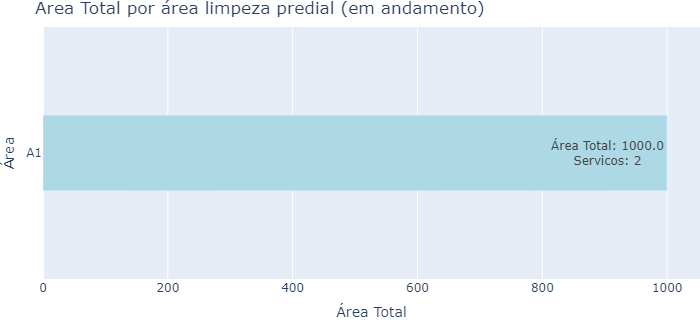
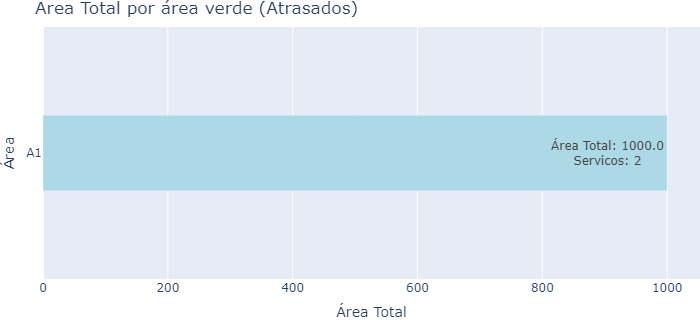
alter padrao de cores

Changed region(s): [[0.3, 0.0, 0.69, 0.0625]]

diff --git a/dashboards/data_visualization_jardinagem.py b/dashboards/data_visualization_jardinagem.py
@@ -474,27 +474,27 @@ class data_visualization_jardinagem_reports:
                 self.agendados,
                 status='Concluido',
                 field_name='Areas__Terreno__nome',
-                title='Área Total por Tipo de Terreno (Atrasados)',
+                title='Área Total por Tipo de Terreno (Concluidos)',
                 label_type='Terreno',
-                color='#add8e6'
+                color='#001969'
             ),
 
             'fig_area_area_concluidos': generate_chart(
                 self.agendados,
                 status='Concluido',
                 field_name='Areas__nome',
-                title='Área Total por área verde (Atrasados)',
+                title='Área Total por área verde (Concluidos)',
                 label_type='Área',
-                color='#add8e6'
+                color='#001969'
             ),
 
             'fig_area_localidade_concluidos': generate_chart(
                 self.agendados,
                 status='Concluido',
                 field_name='Areas__localidade__nome',
-                title='Área Total por localidade (Atrasados)',
+                title='Área Total por localidade (Concluidos)',
                 label_type='Localidade',
-                color='#add8e6'
+                color='#001969'
             ),
 
             # Colaborador
@@ -502,9 +502,9 @@ class data_visualization_jardinagem_reports:
                 self.agendados,
                 status='Concluido',
                 field_name='ColaboradoresEscalados__username',
-                title='Área Total por colaborador (Atrasados)',
+                title='Área Total por colaborador (Concluidos)',
                 label_type='Colaborador',
-                color='#add8e6'
+                color='#001969'
             ),
         }
 
@@ -522,5 +522,3 @@ class data_visualization_jardinagem_reports:
         }
 
         return fig_charts
-
-

diff --git a/dashboards/data_visualization_limpeza_predial.py b/dashboards/data_visualization_limpeza_predial.py
@@ -295,18 +295,18 @@ class data_visualization_limpeza_predial_reports:
                 self.agendados,
                 status='Concluido',
                 field_name='Areas__localidade__nome',
-                title='Área Total por localidade (em andamento)',
+                title='Área Total por localidade (Concluidos)',
                 label_type='Localidade',
-                color='#add8e6'
+                color='#Concluidos'
             ),
 
             'fig_area_area_concluidos': generate_chart(
                 self.agendados,
                 status='Concluido',
                 field_name='Areas__nome',
-                title='Área Total por área limpeza predial (em andamento)',
+                title='Área Total por área limpeza predial (Concluidos)',
                 label_type='Área',
-                color='#add8e6'
+                color='#Concluidos'
             ),
         }
 
